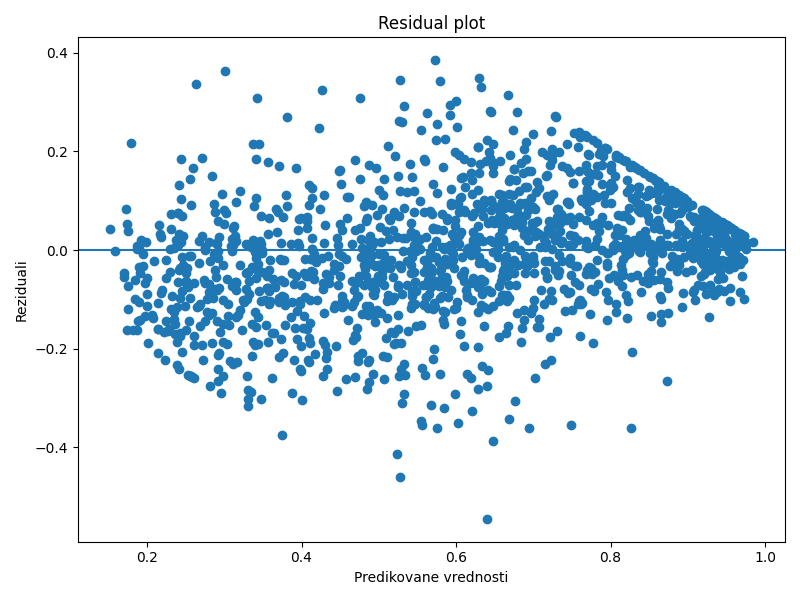
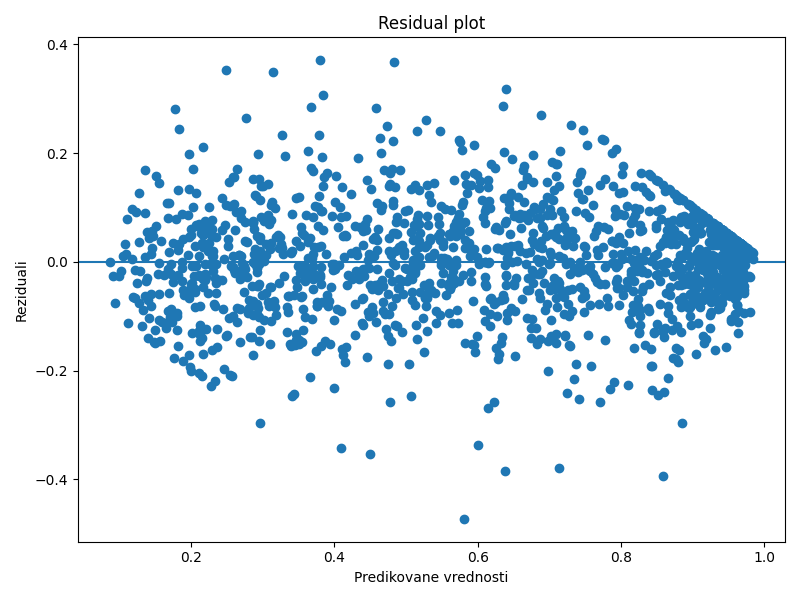
Refine model training selection

diff --git a/src/train.py b/src/train.py
@@ -3,7 +3,8 @@ import numpy as np
 from joblib import dump
 from pathlib import Path
 
-from sklearn.linear_model import LinearRegression, LogisticRegression, Ridge, Lasso
+from sklearn.ensemble import RandomForestRegressor
+from sklearn.linear_model import LogisticRegression, Ridge
 from sklearn.neighbors import KNeighborsRegressor
 from sklearn.dummy import DummyRegressor
 
@@ -53,18 +54,46 @@ def load_processed_data():
     )
 
 
-def build_models(best_ridge_alpha, best_lasso_alpha, knn_neighbors):
+MODEL_EXPLANATIONS = {
+    "Baseline Dummy Regressor": (
+        "Uzima se kao polazna tacka jer uvek predvidja srednju vrednost "
+        "ciljne promenljive. Ako drugi modeli nisu bolji od njega, onda "
+        "nisu naucili koristan obrazac iz atributa."
+    ),
+    "Ridge Regression": (
+        "Uzima se kao glavni linearni model jer je jednostavan za tumacenje, "
+        "a L2 regularizacija smanjuje preprilagodjavanje i stabilizuje "
+        "koeficijente kada su atributi povezani."
+    ),
+    "KNN Regression": (
+        "Uzima se jer koristi slicnost izmedju scenarija. Za ovaj problem je "
+        "prirodno proveriti da li slicne kombinacije V, C, pocetnog udela i "
+        "parametara simulacije daju slican final_hawk."
+    ),
+    "Random Forest Regression": (
+        "Uzima se kao nelinearni model jer simulacija hawk-dove dinamike ima "
+        "interakcije izmedju atributa, na primer V/C, learning_rate, "
+        "mutation_rate i volatilnost. Ansambl stabala dobro hvata takve "
+        "nelinearne odnose bez potrebe da ih rucno zadamo."
+    ),
+}
+
+
+def build_models(best_ridge_alpha, knn_neighbors):
     return {
         "Baseline Dummy Regressor": DummyRegressor(strategy="mean"),
-        "Linear Regression": LinearRegression(),
         f"Ridge Regression (alpha={best_ridge_alpha})": Ridge(
             alpha=best_ridge_alpha,
         ),
-        f"Lasso Regression (alpha={best_lasso_alpha})": Lasso(
-            alpha=best_lasso_alpha,
-        ),
         f"KNN Regression (k={knn_neighbors})": KNeighborsRegressor(
             n_neighbors=knn_neighbors,
+        ),
+        "Random Forest Regression": RandomForestRegressor(
+            n_estimators=200,
+            max_depth=12,
+            min_samples_leaf=3,
+            random_state=RANDOM_SEED,
+            n_jobs=-1,
         ),
     }
 
@@ -110,7 +139,7 @@ def evaluate_knn_neighbors(X_train, y_train):
     return results_df, best_neighbors
 
 
-def evaluate_regularization_strengths(X_train, y_train):
+def evaluate_ridge_regularization_strengths(X_train, y_train):
     kf = KFold(
         n_splits=5,
         shuffle=True,
@@ -119,39 +148,28 @@ def evaluate_regularization_strengths(X_train, y_train):
     alpha_candidates = [0.0001, 0.001, 0.01, 0.1, 1.0, 10.0, 100.0]
     results = []
 
-    for model_name, model_class in [
-        ("Ridge Regression", Ridge),
-        ("Lasso Regression", Lasso),
-    ]:
-        for alpha in alpha_candidates:
-            model = model_class(alpha=alpha)
-            cv_scores = cross_val_score(
-                model,
-                X_train,
-                y_train,
-                cv=kf,
-                scoring="r2",
-            )
-            results.append({
-                "model": model_name,
-                "alpha": alpha,
-                "CV_R2_mean": np.mean(cv_scores),
-                "CV_R2_std": np.std(cv_scores),
-            })
+    for alpha in alpha_candidates:
+        model = Ridge(alpha=alpha)
+        cv_scores = cross_val_score(
+            model,
+            X_train,
+            y_train,
+            cv=kf,
+            scoring="r2",
+        )
+        results.append({
+            "model": "Ridge Regression",
+            "alpha": alpha,
+            "CV_R2_mean": np.mean(cv_scores),
+            "CV_R2_std": np.std(cv_scores),
+        })
 
     results_df = pd.DataFrame(results)
     best_ridge_alpha = float(
-        results_df[results_df["model"] == "Ridge Regression"]
-        .sort_values("CV_R2_mean", ascending=False)
-        .iloc[0]["alpha"]
-    )
-    best_lasso_alpha = float(
-        results_df[results_df["model"] == "Lasso Regression"]
-        .sort_values("CV_R2_mean", ascending=False)
-        .iloc[0]["alpha"]
+        results_df.sort_values("CV_R2_mean", ascending=False).iloc[0]["alpha"]
     )
 
-    return results_df, best_ridge_alpha, best_lasso_alpha
+    return results_df, best_ridge_alpha
 
 
 def evaluate_models(models, X_train, y_train, X_val, y_val):
@@ -229,7 +247,6 @@ def save_results(
     knn_results_df,
     regularization_results_df,
     best_ridge_alpha,
-    best_lasso_alpha,
     best_knn_neighbors,
     best_model_name,
     test_metrics,
@@ -249,16 +266,10 @@ def save_results(
         file.write("Rezultati evaluacije regresionih modela\n")
         file.write("======================================\n\n")
 
-        file.write("Baseline model\n")
-        file.write("--------------\n")
-        file.write(
-            "Baseline Dummy Regressor uvek predvidja srednju vrednost "
-            "ciljne promenljive iz trening skupa.\n"
-        )
-        file.write(
-            "Ostali modeli treba da imaju bolji rezultat od ovog modela "
-            "da bi bili korisni.\n\n"
-        )
+        file.write("Izabrani modeli i razlog izbora\n")
+        file.write("--------------------------------\n")
+        for model_name, explanation in MODEL_EXPLANATIONS.items():
+            file.write(f"{model_name}: {explanation}\n\n")
 
         file.write("Izbor broja suseda za KNN regresiju\n")
         file.write("-----------------------------------\n")
@@ -270,10 +281,9 @@ def save_results(
             file.write(f"Std CV R2: {result['CV_R2_std']}\n")
             file.write("\n")
 
-        file.write("Izbor lambda/alpha parametra za Ridge i Lasso\n")
-        file.write("---------------------------------------------\n")
-        file.write(f"Najbolji alpha za Ridge: {best_ridge_alpha}\n")
-        file.write(f"Najbolji alpha za Lasso: {best_lasso_alpha}\n\n")
+        file.write("Izbor lambda/alpha parametra za Ridge regresiju\n")
+        file.write("-----------------------------------------------\n")
+        file.write(f"Najbolji alpha za Ridge: {best_ridge_alpha}\n\n")
 
         for result in regularization_results_df.to_dict("records"):
             file.write(f"Model: {result['model']}\n")
@@ -333,9 +343,8 @@ def main():
     (
         regularization_results_df,
         best_ridge_alpha,
-        best_lasso_alpha,
-    ) = evaluate_regularization_strengths(X_train, y_train)
-    models = build_models(best_ridge_alpha, best_lasso_alpha, best_knn_neighbors)
+    ) = evaluate_ridge_regularization_strengths(X_train, y_train)
+    models = build_models(best_ridge_alpha, best_knn_neighbors)
 
     results_df, best_model, best_model_name = evaluate_models(
         models,
@@ -357,7 +366,6 @@ def main():
         knn_results_df,
         regularization_results_df,
         best_ridge_alpha,
-        best_lasso_alpha,
         best_knn_neighbors,
         best_model_name,
         test_metrics,
@@ -366,7 +374,6 @@ def main():
     dump(best_model, BEST_MODEL_PATH)
 
     print(f"\nNajbolji alpha za Ridge regresiju: {best_ridge_alpha}")
-    print(f"Najbolji alpha za Lasso regresiju: {best_lasso_alpha}")
     print(f"\nNajbolji broj suseda za KNN regresiju: {best_knn_neighbors}")
     print(f"\nNajbolji model: {best_model_name}")
     print("Test MAE:", test_metrics["MAE"])